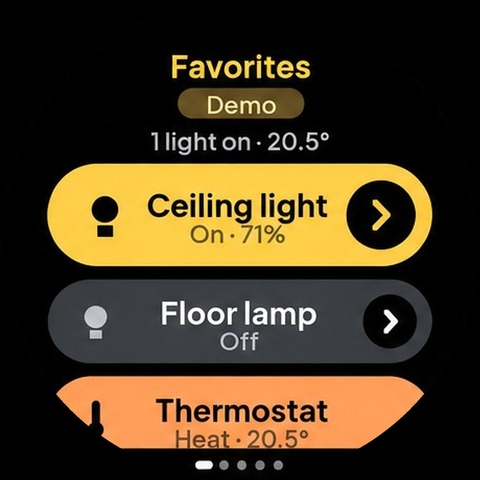
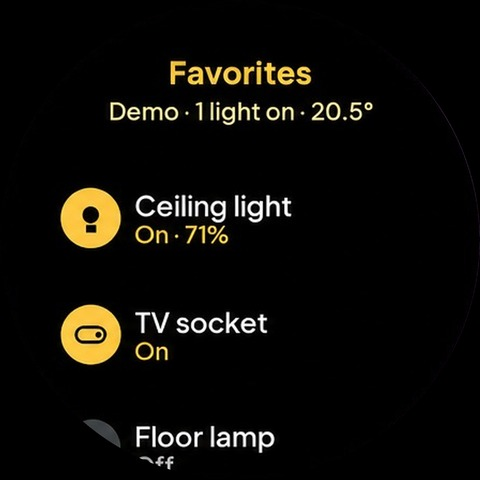
Domora: new store images on the site, 13 approved apps no longer marked pending
Claude-Session: https://claude.ai/code/session_01Xk8MWQXirEETYPCuwv7DWv

diff --git a/apps/domora.html b/apps/domora.html
@@ -22,7 +22,7 @@
 <link rel="preconnect" href="https://fonts.googleapis.com"><link rel="preconnect" href="https://fonts.gstatic.com" crossorigin><link rel="stylesheet" href="https://fonts.googleapis.com/css2?family=Plus+Jakarta+Sans:wght@400..800&display=swap">
 <link rel="stylesheet" href="../style.css?v=bdd14c9f">
 <script type="application/ld+json">{"@type": "Organization", "@id": "https://gerros.app/#org", "name": "GerrOS", "url": "https://gerros.app/", "logo": "https://gerros.app/assets/brand/gerros-icon-512.png", "email": "thijsjwger@gmail.com", "founder": {"@type": "Person", "name": "Thijs Gerritsen"}, "address": {"@type": "PostalAddress", "addressLocality": "Den Dolder", "addressCountry": "NL"}, "sameAs": ["https://apps.garmin.com/developer/de6acef4-c127-4cf2-84bc-baccde5f8b16/apps"], "description": "Independent one-person studio from the Netherlands that publishes Garmin Connect IQ apps and watch faces and builds custom Garmin and Wear OS apps to order."}</script>
-<script type="application/ld+json">{"@type": "SoftwareApplication", "name": "Domora", "url": "https://gerros.app/apps/domora.html", "applicationCategory": "UtilitiesApplication", "operatingSystem": "Garmin Connect IQ", "description": "Remote for Home Assistant, set up on the watch", "image": "https://gerros.app/assets/covers/domora.jpg", "screenshot": ["https://gerros.app/assets/screens/domora-1.jpg", "https://gerros.app/assets/screens/domora-2.jpg", "https://gerros.app/assets/screens/domora-3.jpg", "https://gerros.app/assets/screens/domora-4.jpg", "https://gerros.app/assets/screens/domora-5.jpg"], "softwareVersion": "1.1.0", "inLanguage": ["en", "nl", "de", "fr", "es"], "author": {"@id": "https://gerros.app/#org"}, "publisher": {"@id": "https://gerros.app/#org"}}</script>
+<script type="application/ld+json">{"@type": "SoftwareApplication", "name": "Domora", "url": "https://gerros.app/apps/domora.html", "applicationCategory": "UtilitiesApplication", "operatingSystem": "Garmin Connect IQ", "description": "Remote for Home Assistant, set up on the watch", "image": "https://gerros.app/assets/covers/domora.jpg", "screenshot": ["https://gerros.app/assets/screens/domora-1.jpg", "https://gerros.app/assets/screens/domora-2.jpg", "https://gerros.app/assets/screens/domora-3.jpg", "https://gerros.app/assets/screens/domora-4.jpg", "https://gerros.app/assets/screens/domora-5.jpg"], "softwareVersion": "1.1.0", "inLanguage": ["en", "nl", "de", "fr", "es"], "author": {"@id": "https://gerros.app/#org"}, "publisher": {"@id": "https://gerros.app/#org"}, "installUrl": "https://apps.garmin.com/apps/cbe853f7-e460-4480-bc96-fa18a695acc3", "sameAs": "https://apps.garmin.com/apps/cbe853f7-e460-4480-bc96-fa18a695acc3", "aggregateRating": {"@type": "AggregateRating", "ratingValue": 5.0, "reviewCount": 1, "bestRating": 5}}</script>
 <script type="application/ld+json">{"@type": "BreadcrumbList", "itemListElement": [{"@type": "ListItem", "position": 1, "name": "GerrOS", "item": "https://gerros.app/"}, {"@type": "ListItem", "position": 2, "name": "Apps", "item": "https://gerros.app/apps.html"}, {"@type": "ListItem", "position": 3, "name": "Domora", "item": "https://gerros.app/apps/domora.html"}]}</script>
 </head>
 <body><header class="nav"><div class="wrap">
@@ -36,12 +36,12 @@
     <a class="crumb" href="../apps.html">All apps</a>
     <h1>Domora</h1>
     <p class="lede">Remote for Home Assistant, set up on the watch.</p>
-    <div class="facts"><div><b>In review</b><span>at Garmin</span></div><div><b>1.1.0</b><span>version, 14 Nov 2026</span></div><div><b>164</b><span>Garmin watch models</span></div></div>
-    <div class="actions"><p class="note">Submitted to Garmin and waiting for review. The store link appears here once it is approved.</p></div>
+    <div class="facts"><div><b>5.0</b><span>out of 5, 1 review</span></div><div><b>1.1.0</b><span>version, 14 Nov 2026</span></div><div><b>164</b><span>Garmin watch models</span></div></div>
+    <div class="actions"><a class="btn accent" href="https://apps.garmin.com/apps/cbe853f7-e460-4480-bc96-fa18a695acc3" target="_blank" rel="noopener">Open in the Connect IQ Store <svg viewBox="0 0 16 16" fill="none" stroke="currentColor" stroke-width="1.8" stroke-linecap="round" stroke-linejoin="round" aria-hidden="true"><path d="M5.5 3.5h7v7M12.5 3.5 3.5 12.5"/></svg></a></div>
   </div>
   <span class="dial big"><img src="../assets/dials/domora.jpg" alt="Domora watch screen: Remote for Home Assistant" width="480" height="480" decoding="async"></span>
 </div></section>
-<section class="shots"><div class="wrap"><figure class="shot"><img src="../assets/screens/domora-2.jpg" alt="Domora: Dim a light. Brightness with - and +" width="1536" height="1024" decoding="async"></figure><figure class="shot"><img src="../assets/screens/domora-3.jpg" alt="Domora: Set the thermostat. Target and measured temperature" width="1536" height="1024" decoding="async"></figure><figure class="shot"><img src="../assets/screens/domora-4.jpg" alt="Domora: Pick favorites on the watch. No config file to write" width="1536" height="1024" loading="lazy" decoding="async"></figure><figure class="shot"><img src="../assets/screens/domora-5.jpg" alt="Domora: Connect with a QR code. Scan it with your phone and log in" width="1536" height="1024" loading="lazy" decoding="async"></figure></div></section>
+<section class="shots"><div class="wrap"><figure class="shot"><img src="../assets/screens/domora-2.jpg" alt="Domora: Dim a light. Brightness with - and +" width="1536" height="1024" decoding="async"></figure><figure class="shot"><img src="../assets/screens/domora-3.jpg" alt="Domora: Set the thermostat. Target and measured temperature" width="1536" height="1024" decoding="async"></figure><figure class="shot"><img src="../assets/screens/domora-4.jpg" alt="Domora: Automatic favorites. Give a device the label garmin in Home Assistant" width="1536" height="1024" loading="lazy" decoding="async"></figure><figure class="shot"><img src="../assets/screens/domora-5.jpg" alt="Domora: Connect with a QR code. Scan it with your phone and log in" width="1536" height="1024" loading="lazy" decoding="async"></figure></div></section>
 <section class="section appbody"><div class="wrap">
   <div class="desc"><p>Domora is a remote control for Home Assistant on your watch. Your favorite devices are one tap away: lights, switches, thermostat, covers, locks, media players, scenes and sensors.</p><p>There is no file to write and no group to add to configuration.yaml. You scan a QR code on the watch with your phone, log in to your Home Assistant, and the watch is connected. Then you choose your favorites on the watch itself, by room or by kind. A built-in demo home lets you try everything first.</p><h4>What it does</h4><ul><li>Favorites page with large buttons; a lit button means the device is on. The top favorite is extra large: open the app and tap once</li><li>Pick favorites on the watch by area or by kind, reorder them and remove them, all without a config file</li><li>Areas page: every room in your home with its devices, loaded a few at a time so large homes work too</li><li>Scenes page: your scenes and scripts, found automatically</li><li>Sensors page and a glance with one or two values you choose, refreshed in the background</li><li>Lights with brightness, fans with speed, thermostats with target temperature and mode, covers with open, stop and close, media players with volume, pause and next</li><li>Locks and alarm panels: unlocking and disarming always ask for confirmation</li><li>Also: input booleans, numbers and selects, vacuums, automations and buttons</li><li>The button reacts at once, then Domora reads the real state back from your home</li><li>Opens instantly with the last known state and refreshes while you look</li><li>Clear messages when something is wrong (token refused, HTTPS needed, phone not connected, no answer), each with what to do</li><li>Works with touch and with buttons only</li><li>English, Dutch, German, French and Spanish</li></ul><h4>How to connect</h4><p>1. Open Domora on the watch and choose Scan QR code.</p><p>2. Scan the code with your phone camera. On the page that opens, enter the address of your Home Assistant and log in there.</p><p>3. The watch says Paired. Choose Add favorites and pick your devices.</p><p>Prefer to do it by hand? In the Connect IQ app on your phone, open the settings of Domora and enter the https address of your Home Assistant (for example https://my-home.example:8123, a port is fine) and a long-lived access token (Home Assistant: your profile, Security, Long-lived access tokens, Create token).</p><h4>What it needs</h4><ul><li>Home Assistant 2023.4 or newer, reachable from the internet over HTTPS with a valid certificate (Home Assistant Cloud or your own domain). Plain http and self-signed certificates do not work on Garmin watches</li><li>Your phone nearby with Bluetooth on; the watch reaches your home through the Garmin Connect app</li><li>Privacy: with QR pairing the phone page creates an access token named Domora watch in your Home Assistant and passes it to the watch encrypted. The key is made on the watch, travels only inside the QR code to your phone and never reaches a server. The relay server holds only the encrypted message, for at most 10 minutes, and deletes it as soon as the watch has fetched it. After that the token stays on your watch and is only sent to your own Home Assistant</li></ul><p>Domora is an independent app and is not affiliated with or endorsed by Home Assistant or the Open Home Foundation.</p></div>
   <aside class="side">
@@ -53,7 +53,7 @@
       <dt>Your data</dt><dd>Stays on the watch</dd>
       <dt>Help</dt><dd><a href="../support.html">Support</a></dd>
     </dl>
-    
+    <a class="btn ghost" href="https://apps.garmin.com/apps/cbe853f7-e460-4480-bc96-fa18a695acc3" target="_blank" rel="noopener">Open in the Connect IQ Store <svg viewBox="0 0 16 16" fill="none" stroke="currentColor" stroke-width="1.8" stroke-linecap="round" stroke-linejoin="round" aria-hidden="true"><path d="M5.5 3.5h7v7M12.5 3.5 3.5 12.5"/></svg></a>
   </aside>
 </div></section>
 <section class="section others"><div class="wrap">

diff --git a/apps.html b/apps.html
@@ -31,7 +31,7 @@
 </div></header>
 <section class="page-head"><div class="wrap">
   <h1>Apps</h1>
-  <p class="lede">8 in the Connect IQ Store, 2 in review at Garmin. Each one with its main screen and the pages behind it.</p>
+  <p class="lede">Ten in the Connect IQ Store. Each one with its main screen and the pages behind it.</p>
 </div></section>
 <section class="rows"><div class="wrap"><article class="row" id="caffi" style="--accent:#F8A858">
     <a class="row-dial" href="apps/caffi.html" tabindex="-1" aria-hidden="true"><span class="dial"><img src="assets/dials/caffi.jpg" alt="Caffi watch screen: Caffeine in your body" width="480" height="480" decoding="async"></span></a>
@@ -110,18 +110,18 @@
     <div class="row-body">
       <h2><a href="apps/hydrosmart.html">HydroSmart</a></h2>
       <p class="row-tag">Water tracker with a daily goal worked out from weight, activity and heat</p>
-      <p class="row-meta"><span class="state">In review at Garmin</span></p>
+      <p class="row-meta"><span class="state">New in the store</span></p>
       <div class="minis"><figure><span class="dial"><img src="assets/dials/hydrosmart-2.jpg" alt="HydroSmart watch screen: A goal worked out for today" width="480" height="480" loading="lazy" decoding="async"></span><figcaption>A goal worked out for today</figcaption></figure><figure><span class="dial"><img src="assets/dials/hydrosmart-3.jpg" alt="HydroSmart watch screen: Log a drink in two taps" width="480" height="480" loading="lazy" decoding="async"></span><figcaption>Log a drink in two taps</figcaption></figure><figure><span class="dial"><img src="assets/dials/hydrosmart-4.jpg" alt="HydroSmart watch screen: Your day, hour by hour" width="480" height="480" loading="lazy" decoding="async"></span><figcaption>Your day, hour by hour</figcaption></figure><figure><span class="dial"><img src="assets/dials/hydrosmart-5.jpg" alt="HydroSmart watch screen: Seven days, each against its own goal" width="480" height="480" loading="lazy" decoding="async"></span><figcaption>Seven days, each against its own goal</figcaption></figure></div>
-      <p class="actions"><a class="btn" href="apps/hydrosmart.html">About HydroSmart</a></p>
+      <p class="actions"><a class="btn" href="apps/hydrosmart.html">About HydroSmart</a><a class="btn ghost" href="https://apps.garmin.com/apps/d25b4bc0-bba5-4e74-964b-27aff0feb119" target="_blank" rel="noopener">Open in the Connect IQ Store <svg viewBox="0 0 16 16" fill="none" stroke="currentColor" stroke-width="1.8" stroke-linecap="round" stroke-linejoin="round" aria-hidden="true"><path d="M5.5 3.5h7v7M12.5 3.5 3.5 12.5"/></svg></a></p>
     </div>
   </article><article class="row" id="domora" style="--accent:#FFC23A">
     <a class="row-dial" href="apps/domora.html" tabindex="-1" aria-hidden="true"><span class="dial"><img src="assets/dials/domora.jpg" alt="Domora watch screen: Remote for Home Assistant" width="480" height="480" decoding="async"></span></a>
     <div class="row-body">
       <h2><a href="apps/domora.html">Domora</a></h2>
       <p class="row-tag">Remote for Home Assistant, set up on the watch</p>
-      <p class="row-meta"><span class="state">In review at Garmin</span></p>
-      <div class="minis"><figure><span class="dial"><img src="assets/dials/domora-2.jpg" alt="Domora watch screen: Dim a light" width="480" height="480" loading="lazy" decoding="async"></span><figcaption>Dim a light</figcaption></figure><figure><span class="dial"><img src="assets/dials/domora-3.jpg" alt="Domora watch screen: Set the thermostat" width="480" height="480" loading="lazy" decoding="async"></span><figcaption>Set the thermostat</figcaption></figure><figure><span class="dial"><img src="assets/dials/domora-4.jpg" alt="Domora watch screen: Pick favorites on the watch" width="480" height="480" loading="lazy" decoding="async"></span><figcaption>Pick favorites on the watch</figcaption></figure><figure><span class="dial"><img src="assets/dials/domora-5.jpg" alt="Domora watch screen: Connect with a QR code" width="480" height="480" loading="lazy" decoding="async"></span><figcaption>Connect with a QR code</figcaption></figure></div>
-      <p class="actions"><a class="btn" href="apps/domora.html">About Domora</a></p>
+      <p class="row-meta"><span class="rating"><b>5.0</b> out of 5, 1 review</span></p>
+      <div class="minis"><figure><span class="dial"><img src="assets/dials/domora-2.jpg" alt="Domora watch screen: Dim a light" width="480" height="480" loading="lazy" decoding="async"></span><figcaption>Dim a light</figcaption></figure><figure><span class="dial"><img src="assets/dials/domora-3.jpg" alt="Domora watch screen: Set the thermostat" width="480" height="480" loading="lazy" decoding="async"></span><figcaption>Set the thermostat</figcaption></figure><figure><span class="dial"><img src="assets/dials/domora-4.jpg" alt="Domora watch screen: Automatic favorites" width="480" height="480" loading="lazy" decoding="async"></span><figcaption>Automatic favorites</figcaption></figure><figure><span class="dial"><img src="assets/dials/domora-5.jpg" alt="Domora watch screen: Connect with a QR code" width="480" height="480" loading="lazy" decoding="async"></span><figcaption>Connect with a QR code</figcaption></figure></div>
+      <p class="actions"><a class="btn" href="apps/domora.html">About Domora</a><a class="btn ghost" href="https://apps.garmin.com/apps/cbe853f7-e460-4480-bc96-fa18a695acc3" target="_blank" rel="noopener">Open in the Connect IQ Store <svg viewBox="0 0 16 16" fill="none" stroke="currentColor" stroke-width="1.8" stroke-linecap="round" stroke-linejoin="round" aria-hidden="true"><path d="M5.5 3.5h7v7M12.5 3.5 3.5 12.5"/></svg></a></p>
     </div>
   </article></div></section><footer class="footer"><div class="wrap">
   <a class="brand" href="index.html"><svg class="mark" viewBox="0 0 64 64" aria-hidden="true"><circle cx="32" cy="32" r="22" fill="none" stroke="#131518" stroke-width="7"/><path d="M32 6a26 26 0 0 1 26 26" fill="none" stroke="#3EDC96" stroke-width="7" stroke-linecap="round"/></svg>GerrOS</a>

diff --git a/apps/hydrosmart.html b/apps/hydrosmart.html
@@ -22,7 +22,7 @@
 <link rel="preconnect" href="https://fonts.googleapis.com"><link rel="preconnect" href="https://fonts.gstatic.com" crossorigin><link rel="stylesheet" href="https://fonts.googleapis.com/css2?family=Plus+Jakarta+Sans:wght@400..800&display=swap">
 <link rel="stylesheet" href="../style.css?v=bdd14c9f">
 <script type="application/ld+json">{"@type": "Organization", "@id": "https://gerros.app/#org", "name": "GerrOS", "url": "https://gerros.app/", "logo": "https://gerros.app/assets/brand/gerros-icon-512.png", "email": "thijsjwger@gmail.com", "founder": {"@type": "Person", "name": "Thijs Gerritsen"}, "address": {"@type": "PostalAddress", "addressLocality": "Den Dolder", "addressCountry": "NL"}, "sameAs": ["https://apps.garmin.com/developer/de6acef4-c127-4cf2-84bc-baccde5f8b16/apps"], "description": "Independent one-person studio from the Netherlands that publishes Garmin Connect IQ apps and watch faces and builds custom Garmin and Wear OS apps to order."}</script>
-<script type="application/ld+json">{"@type": "SoftwareApplication", "name": "HydroSmart", "url": "https://gerros.app/apps/hydrosmart.html", "applicationCategory": "HealthApplication", "operatingSystem": "Garmin Connect IQ", "description": "Water tracker with a daily goal worked out from weight, activity and heat", "image": "https://gerros.app/assets/covers/hydrosmart.jpg", "screenshot": ["https://gerros.app/assets/screens/hydrosmart-1.jpg", "https://gerros.app/assets/screens/hydrosmart-2.jpg", "https://gerros.app/assets/screens/hydrosmart-3.jpg", "https://gerros.app/assets/screens/hydrosmart-4.jpg", "https://gerros.app/assets/screens/hydrosmart-5.jpg"], "softwareVersion": "1.0.0", "inLanguage": ["en", "nl", "de", "fr", "es"], "author": {"@id": "https://gerros.app/#org"}, "publisher": {"@id": "https://gerros.app/#org"}}</script>
+<script type="application/ld+json">{"@type": "SoftwareApplication", "name": "HydroSmart", "url": "https://gerros.app/apps/hydrosmart.html", "applicationCategory": "HealthApplication", "operatingSystem": "Garmin Connect IQ", "description": "Water tracker with a daily goal worked out from weight, activity and heat", "image": "https://gerros.app/assets/covers/hydrosmart.jpg", "screenshot": ["https://gerros.app/assets/screens/hydrosmart-1.jpg", "https://gerros.app/assets/screens/hydrosmart-2.jpg", "https://gerros.app/assets/screens/hydrosmart-3.jpg", "https://gerros.app/assets/screens/hydrosmart-4.jpg", "https://gerros.app/assets/screens/hydrosmart-5.jpg"], "softwareVersion": "1.0.0", "inLanguage": ["en", "nl", "de", "fr", "es"], "author": {"@id": "https://gerros.app/#org"}, "publisher": {"@id": "https://gerros.app/#org"}, "installUrl": "https://apps.garmin.com/apps/d25b4bc0-bba5-4e74-964b-27aff0feb119", "sameAs": "https://apps.garmin.com/apps/d25b4bc0-bba5-4e74-964b-27aff0feb119"}</script>
 <script type="application/ld+json">{"@type": "BreadcrumbList", "itemListElement": [{"@type": "ListItem", "position": 1, "name": "GerrOS", "item": "https://gerros.app/"}, {"@type": "ListItem", "position": 2, "name": "Apps", "item": "https://gerros.app/apps.html"}, {"@type": "ListItem", "position": 3, "name": "HydroSmart", "item": "https://gerros.app/apps/hydrosmart.html"}]}</script>
 </head>
 <body><header class="nav"><div class="wrap">
@@ -36,8 +36,8 @@
     <a class="crumb" href="../apps.html">All apps</a>
     <h1>HydroSmart</h1>
     <p class="lede">Water tracker with a daily goal worked out from weight, activity and heat.</p>
-    <div class="facts"><div><b>In review</b><span>at Garmin</span></div><div><b>1.0.0</b><span>version, 11 Nov 2026</span></div><div><b>164</b><span>Garmin watch models</span></div></div>
-    <div class="actions"><p class="note">Submitted to Garmin and waiting for review. The store link appears here once it is approved.</p></div>
+    <div class="facts"><div><b>New</b><span>no ratings yet</span></div><div><b>1.0.0</b><span>version, 11 Nov 2026</span></div><div><b>164</b><span>Garmin watch models</span></div></div>
+    <div class="actions"><a class="btn accent" href="https://apps.garmin.com/apps/d25b4bc0-bba5-4e74-964b-27aff0feb119" target="_blank" rel="noopener">Open in the Connect IQ Store <svg viewBox="0 0 16 16" fill="none" stroke="currentColor" stroke-width="1.8" stroke-linecap="round" stroke-linejoin="round" aria-hidden="true"><path d="M5.5 3.5h7v7M12.5 3.5 3.5 12.5"/></svg></a></div>
   </div>
   <span class="dial big"><img src="../assets/dials/hydrosmart.jpg" alt="HydroSmart watch screen: Water tracker with a daily goal" width="480" height="480" decoding="async"></span>
 </div></section>
@@ -53,7 +53,7 @@
       <dt>Your data</dt><dd>Stays on the watch</dd>
       <dt>Help</dt><dd><a href="../support.html">Support</a></dd>
     </dl>
-    
+    <a class="btn ghost" href="https://apps.garmin.com/apps/d25b4bc0-bba5-4e74-964b-27aff0feb119" target="_blank" rel="noopener">Open in the Connect IQ Store <svg viewBox="0 0 16 16" fill="none" stroke="currentColor" stroke-width="1.8" stroke-linecap="round" stroke-linejoin="round" aria-hidden="true"><path d="M5.5 3.5h7v7M12.5 3.5 3.5 12.5"/></svg></a>
   </aside>
 </div></section>
 <section class="section others"><div class="wrap">

diff --git a/whatsnew.html b/whatsnew.html
@@ -33,11 +33,17 @@
   <p class="lede">The latest release notes for each app, newest first.</p>
 </div></section>
 <section class="section flush"><div class="wrap"><div class="newslist"><article class="news">
+      <a class="news-dial" href="apps/domora.html" tabindex="-1" aria-hidden="true"><span class="dial"><img src="assets/dials/domora.jpg" alt="Domora watch screen: Remote for Home Assistant" width="480" height="480" loading="lazy" decoding="async"></span></a>
+      <div class="news-body"><h2><a href="apps/domora.html">Domora</a> <span>1.1.0</span></h2><time>14 Nov 2026</time><p>Lists now use your watch&#x27;s native scrolling. Switches and scenes toggle right from the list; lights and fans open their ring screen. Devices, entities or areas with the label &quot;garmin&quot; in Home Assistant appear in Favorites automatically.</p></div>
+    </article><article class="news">
       <a class="news-dial" href="apps/convertr.html" tabindex="-1" aria-hidden="true"><span class="dial"><img src="assets/dials/convertr.jpg" alt="Convertr watch screen: Unit converter" width="480" height="480" loading="lazy" decoding="async"></span></a>
       <div class="news-body"><h2><a href="apps/convertr.html">Convertr</a> <span>2.1.1</span></h2><time>13 Nov 2026</time><p>Added the Eastern Caribbean dollar (XCD), Barbadian dollar (BBD) and Bahamian dollar (BSD) to the currency converter.</p></div>
     </article><article class="news">
       <a class="news-dial" href="apps/splitr.html" tabindex="-1" aria-hidden="true"><span class="dial"><img src="assets/dials/splitr.jpg" alt="Rowcast watch screen: Your split, live from the rower" width="480" height="480" loading="lazy" decoding="async"></span></a>
       <div class="news-body"><h2><a href="apps/splitr.html">Rowcast</a> <span>2.0.1</span></h2><time>12 Nov 2026</time><p>New app icon.</p></div>
+    </article><article class="news">
+      <a class="news-dial" href="apps/hydrosmart.html" tabindex="-1" aria-hidden="true"><span class="dial"><img src="assets/dials/hydrosmart.jpg" alt="HydroSmart watch screen: Water tracker with a daily goal" width="480" height="480" loading="lazy" decoding="async"></span></a>
+      <div class="news-body"><h2><a href="apps/hydrosmart.html">HydroSmart</a> <span>1.0.0</span></h2><time>11 Nov 2026</time><p>First release.</p></div>
     </article><article class="news">
       <a class="news-dial" href="apps/breathgym.html" tabindex="-1" aria-hidden="true"><span class="dial"><img src="assets/dials/breathgym.jpg" alt="BreathGym watch screen: Breath-hold timer" width="480" height="480" loading="lazy" decoding="async"></span></a>
       <div class="news-body"><h2><a href="apps/breathgym.html">BreathGym</a> <span>2.0.0</span></h2><time>11 Nov 2026</time><p>New look: a new typeface with large clear digits, your record at the top of the home page, rounded charts, and every menu as a clear page with large buttons. Rounds, hold and rest times are set with - and +.</p></div>

diff --git a/index.html b/index.html
@@ -77,7 +77,11 @@
 
 <section class="section"><div class="wrap">
   <div class="section-head"><h2>Latest updates</h2><a class="link" href="whatsnew.html">All release notes</a></div>
-  <div class="updates"><a class="update" href="apps/convertr.html">
+  <div class="updates"><a class="update" href="apps/domora.html">
+      <span class="dial"><img src="assets/dials/domora.jpg" alt="Domora watch screen: Remote for Home Assistant" width="480" height="480" loading="lazy" decoding="async"></span>
+      <span class="update-head"><b>Domora 1.1.0</b><time>14 Nov 2026</time></span>
+      <span class="update-text">Lists now use your watch&#x27;s native scrolling. Switches and scenes toggle right from the list; lights and fans open their ring screen. Devices…</span>
+    </a><a class="update" href="apps/convertr.html">
       <span class="dial"><img src="assets/dials/convertr.jpg" alt="Convertr watch screen: Unit converter" width="480" height="480" loading="lazy" decoding="async"></span>
       <span class="update-head"><b>Convertr 2.1.1</b><time>13 Nov 2026</time></span>
       <span class="update-text">Added the Eastern Caribbean dollar (XCD), Barbadian dollar (BBD) and Bahamian dollar (BSD) to the currency converter.</span>
@@ -85,10 +89,6 @@
       <span class="dial"><img src="assets/dials/splitr.jpg" alt="Rowcast watch screen: Your split, live from the rower" width="480" height="480" loading="lazy" decoding="async"></span>
       <span class="update-head"><b>Rowcast 2.0.1</b><time>12 Nov 2026</time></span>
       <span class="update-text">New app icon.</span>
-    </a><a class="update" href="apps/breathgym.html">
-      <span class="dial"><img src="assets/dials/breathgym.jpg" alt="BreathGym watch screen: Breath-hold timer" width="480" height="480" loading="lazy" decoding="async"></span>
-      <span class="update-head"><b>BreathGym 2.0.0</b><time>11 Nov 2026</time></span>
-      <span class="update-text">New look: a new typeface with large clear digits, your record at the top of the home page, rounded charts, and every menu as a clear page with large…</span>
     </a></div>
 </div></section>
 
